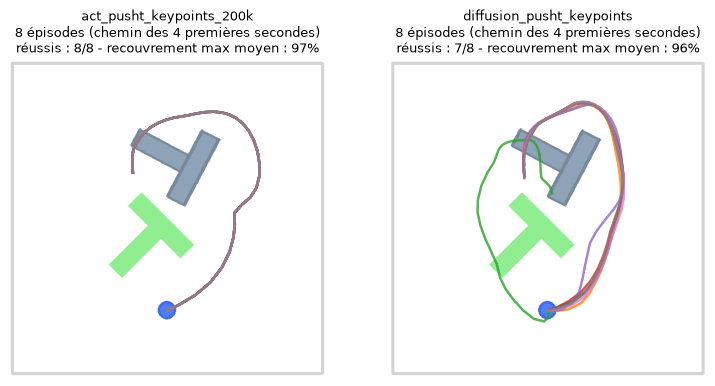
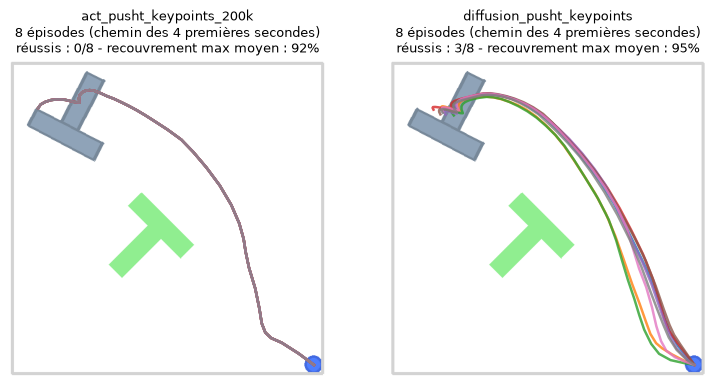
Rapport final sauf conclusion

diff --git a/rapport/RAPPORT.md b/rapport/RAPPORT.md
@@ -4,7 +4,7 @@
 
 **Système d'exploitation et processeur :** Windows 11, Intel Core i5 
 
-**Durée de l'entraînement de la partie 3 sur votre machine :** ... minutes
+**Durée de l'entraînement de la partie 3 sur votre machine :** 43 minutes
 
 <!--
 Ceci est un commentaire Markdown : il n'apparaît pas quand GitHub affiche le fichier.
@@ -107,7 +107,7 @@ L'avantage de réaliser plusieurs actions "les yeux fermés" est qu'on évite un
 
 Une perte très faible ne signifie pas que la politique réussit la tâche, mais seulement qu'elle s'y rapproche.
 
-```kld_loss``` mesure à quel point la variable latente s'écarte d'une loi normale. Ainsi, si elle se rapproche de 0, cela indique que la variable latente se rapproche et finit par se confondre avec une loi normale. 
+```kld_loss``` mesure à quel point la variable latente s'écarte d'une loi normale. Ainsi, si elle se rapproche de 0, cela indique que la variable latente se rapproche et finit par se confondre avec une loi normale. Concrètement, cela indique que la variable latente n'est pas utilisée pour encoder le "style" des démonstrations: le réseau s'appuie donc peu sur celui-ci pour créer sa politique. 
 
 ### Q10
 
@@ -216,17 +216,25 @@ La prédiction d'ACT semble suivre le 4e mode: il touche la partie supérieure d
 
 ### Q20
 
+1.  Un prédicteur déterministe $f$ ne peut reproduire qu'un mode (la moitié) de $p_E(A|o)$: $A_{DROITE}$ ou $A_{GAUCHE}$.
+En effet, à chaque observation $o$, le prédicteur déterministe associe un unique chunk $f(o)$: depuis une même situation, la politique aura toujours le même comportement.
 
-<!-- Les formules s'écrivent entre $...$ (dans le texte) ou entre $$...$$ (sur une ligne à part), en LaTeX. -->
+2. La variable latente $z$ du CVAE encode le style de la démonstrations: ainsi, elle pourrait encoder le comportement de la loi $p_E(A|o)$. Comme vu précédemment, ```kld_loss```se rapproche de 0, indiquant que la variable latente se rapproche de la loi normale. Ainsi, elle ne code plus le style des démonstrations: la politique commence à se baser plus sur l'observation, et non sur le style de l'expert. En fixant $z=0$, on prend la valeur moyenne de cette variable $z$: ainsi, pour une observation $o$, où le comportement de l'agent pourrait dépendre du style encodé par $z$, on en prend la valeur moyenne toujours - le prédicteur devient déterministe. On peut en déduire que $z$ ne transmet pas d'information sur le style au décodeur (vu qu'elle est fixe).
 
-1. 
-
-2. 
-
-3. 
+3. La Diffusion Policy commence avec un tirage de $A_K$ sur une loi normale. Ainsi, à chaque fois qu'on évalue le réseau, on aura une condition initiale différente, ce qui introduit un terme aléatoire dans ce modèle. Il est alors possible de représenter différents modes, surtout si la probabilité de chacun est similaire comme dans cet exemple ($\frac{1}{2}$).
 
 ### Q21
 
 ![Épisodes des deux politiques](images/comparaison/episodes.png)
 
+Le caractère aléatoire de Diffusion Policy est à la fois un avantage et un défaut. En effet, il peut amener l'agent à réaliser des actions qui ne sont pas partie d'une stratégie pour réaliser la tâche; cependant, il permet aussi de tester différents modes pour en trouver un optimal. Étant donné le nombre de possibilités d'action pour chaque observation, il me semble que le caractère aléatoire de Diffusion Policy est plutôt un avantage, même si il peut amener à des erreurs parfois.
+
+Non, les prédictions de Diffusion Policy ne présentent pas systématiquement plusieurs modes: parfois, il n'y a qu'un seul comportement cohérent avec l'observation.
+
+On observe un avantage de la Diffusion Policy sur l'ACT du même ordre qu'il y ait de la multimodalité ou pas: ce caractère multimodal seul n'explique pas l'écart de performance mesuré (5.3). 
+
+Les deux modèles diffèrent également sur le nombre d'observations qui les conditionnent (2 pour la DP, 1 pour l'ACT), le taux d'apprentissage (constant pour l'ACT, décroissant pour la DP), et le nombre de paramètres (6 fois supérieur pour la DP). Tous ces paramètres peuvent avoir un impact sur la politique apprise: pour pouvoir les comparer, on devrait réaliser des expériences en fixant tous les paramètres au même, sauf 1 (e.g. la Diffusion Policy prend un taux d'apprentissage constant et ne se base que sur la dernière observation $o_t$, comme l'ACT, mais le nombre de paramètres continue différent).
+
 ### Q22 – Conclusion
+
+L'apprentissage par  imitation est un modèle d'entraînement de ré
